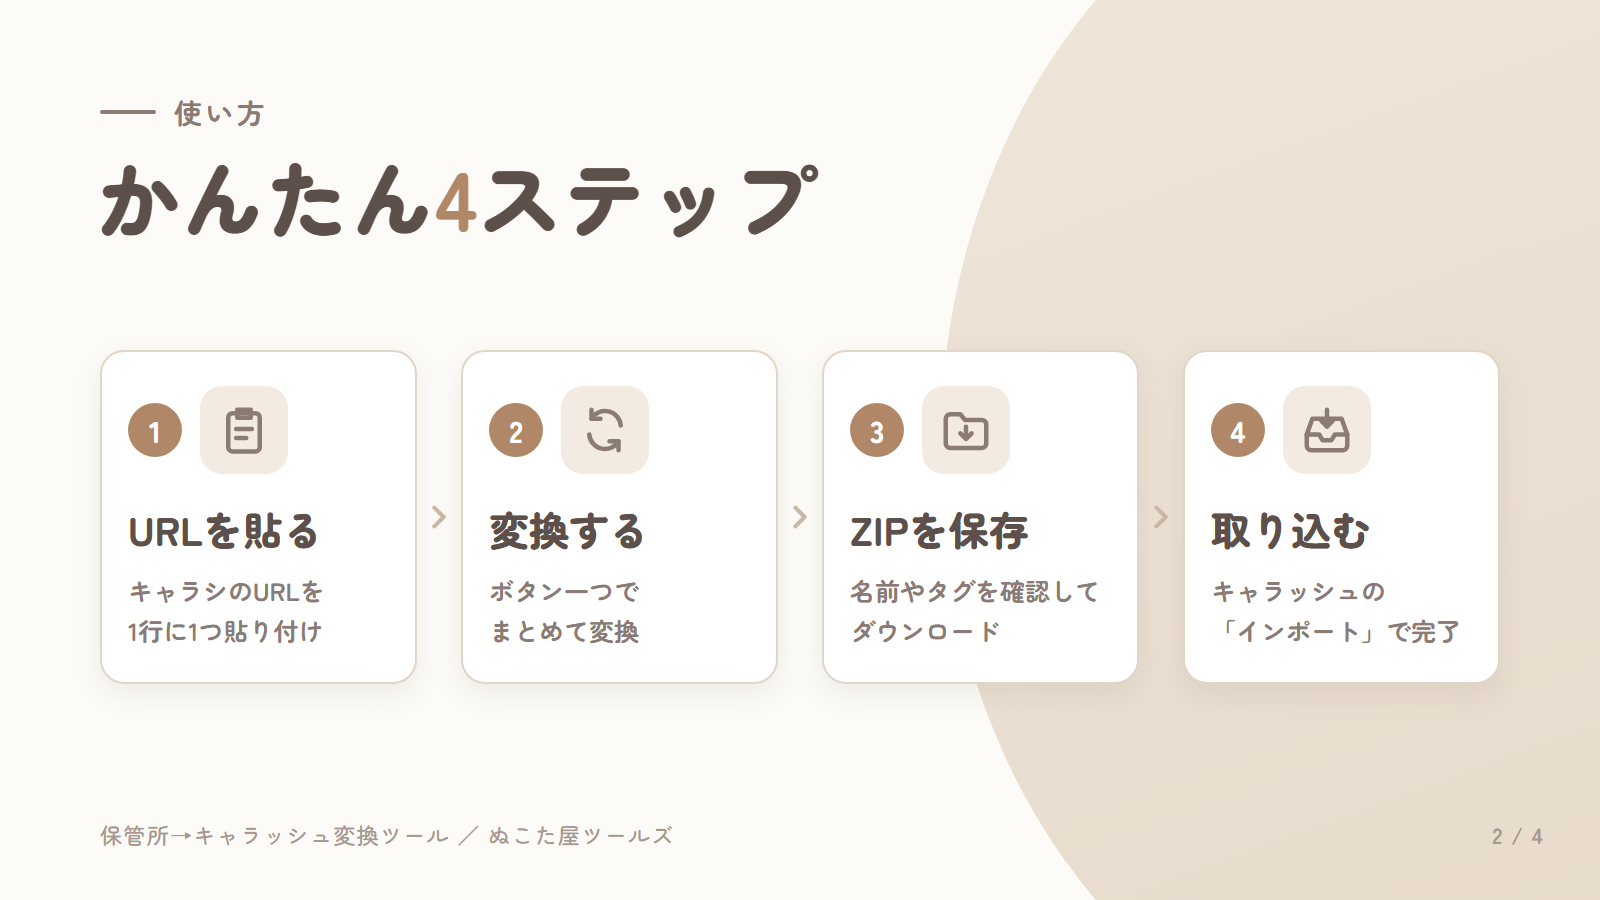
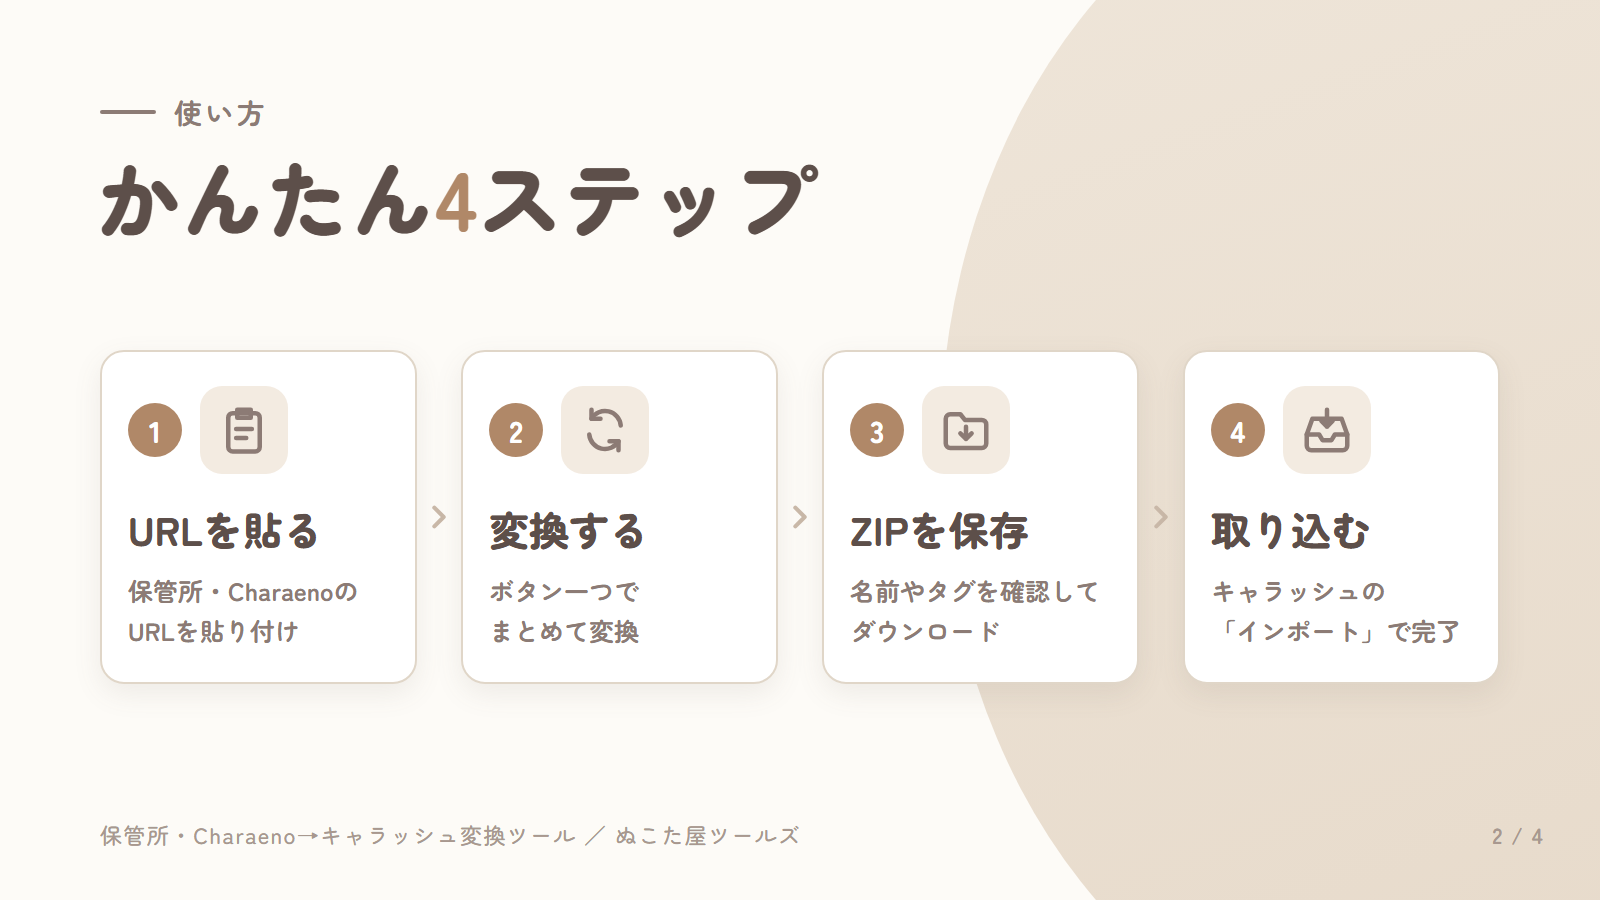
保管所・Charaeno→キャラッシュ変換ツール：名前・説明・商品画像・詳細パネルの画像4枚をCharaeno対応版に更新

Changed region(s): [[0.125, 0.9022, 0.5, 0.9644], [0.0625, 0.6222, 0.2188, 0.7156]]

diff --git a/src/data/tools.ts b/src/data/tools.ts
@@ -84,9 +84,9 @@ export const tools: Tool[] = [
   },
   {
     id: 'charash-converter',
-    title: '保管所→キャラッシュ変換ツール',
-    description: 'キャラクター保管所(CoC6版)のキャラシを、キャラッシュに取り込めるテキストファイルに変換。',
-    detailText: 'キャラクター保管所(CoC6版)のキャラシURLを貼るだけで、キャラッシュの「インポート」で読み込めるテキストファイルを作るツールです。\nマイリストからURLを一括取得して、何百件でもまとめて変換。キャラッシュの取り込み上限に合わせて50人ずつZIPにまとめます。ふりがな・タグ・探索者の特徴も画面で確認・修正できます。',
+    title: '保管所・Charaeno→キャラッシュ変換ツール',
+    description: 'キャラクター保管所・Charaeno(CoC6版)のキャラシを、キャラッシュに取り込めるテキストファイルに変換。',
+    detailText: 'キャラクター保管所・Charaeno(CoC6版)のキャラシURLを貼るだけで、キャラッシュの「インポート」で読み込めるテキストファイルを作るツールです。\n保管所のマイリスト・CharaenoのリストからURLを一括取得して、何百件でもまとめて変換。キャラッシュの取り込み上限に合わせて50人ずつZIPにまとめます。Charaenoの「この探索者の記録一覧」（公開の記録）もメモとして移せます。ふりがな・タグ・探索者の特徴も画面で確認・修正できます。',
     url: 'https://nununu-tatata.github.io/charash-converter/',
     xUrl: 'https://x.com/nukonuko_4/status/2118546418226840025?s=20',
     type: 'Web',
